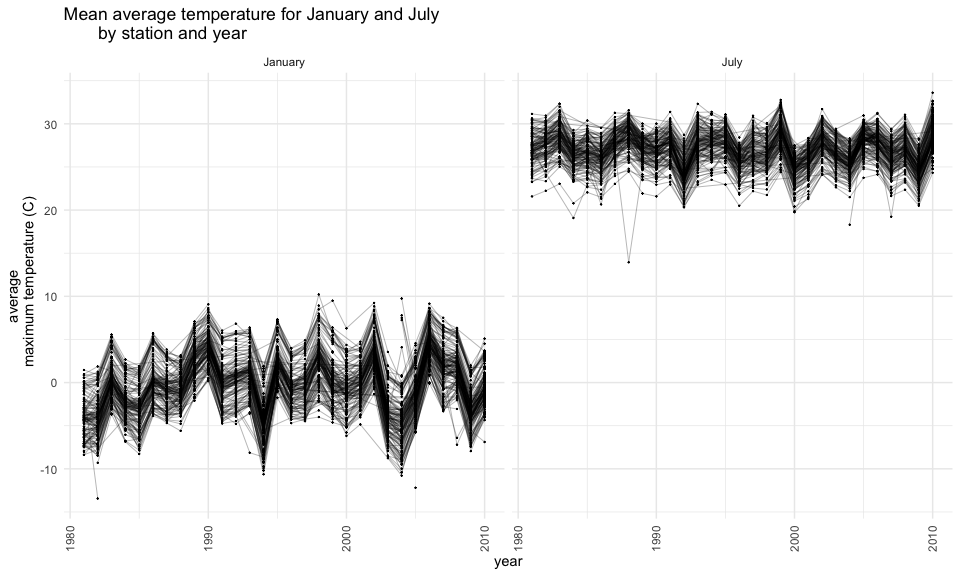
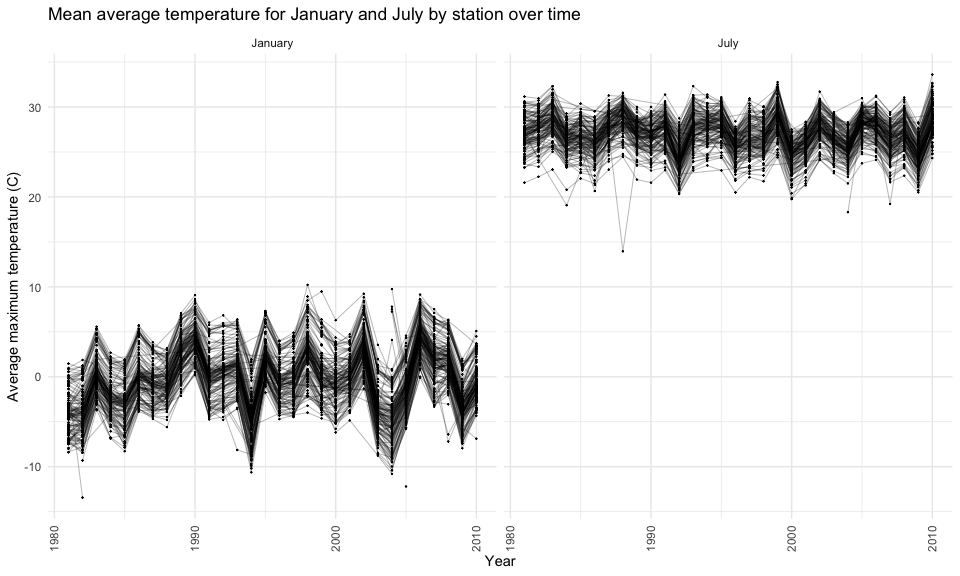
Problem 3 - arrange and clean up plots in problem 3.

diff --git a/Homework3.md b/Homework3.md
@@ -5,7 +5,7 @@ Isabel Nelson
 
 ## Problem 1
 
-Describe the data:
+**Describe the data:**
 
 ``` r
 data("instacart")
@@ -23,7 +23,7 @@ add\_to\_cart\_order, reordered, user\_id, eval\_set, order\_number,
 order\_dow, order\_hour\_of\_day, days\_since\_prior\_order,
 product\_name, aisle\_id, department\_id, aisle, department.
 
-Count aisles:
+**Count aisles:**
 
 ``` r
 instacart %>% 
@@ -50,7 +50,7 @@ instacart %>%
 There are 134 aisles, with most items ordered from the fresh fruits and
 fresh vegetables aisles.
 
-Make a plot of aisles:
+**Make a plot of aisles:**
 
 ``` r
 instacart %>% 
@@ -66,13 +66,14 @@ instacart %>%
 ```
 
 <img src="Homework3_files/figure-gfm/unnamed-chunk-3-1.png" width="90%" />
+
 **comments**  
 Most of the aisles with order counts above 10,000 show between 10k - 20k
 orders. There are about 8 aisles with order counts between 20-40k, 3
 aisles with order counts between 40-80k, and two aisles (fruit and
 vegetables) with order counts around 150k.
 
-Make a table of popular items:
+**Make a table of popular items:**
 
 ``` r
 instacart %>% 
@@ -103,7 +104,8 @@ sugar. The most popular items in dog food care are snack sticks, organix
 chicken recipe, and small dog biscuits. The most popular items in
 packaged fruits/veggies are baby spinach, raspberries, and blueberries.
 
-Make a table for mean hour of product ordered on each day of the week:
+**Make a table for mean hour of product ordered on each day of the
+week:**
 
 ``` r
 instacart %>% 
@@ -133,10 +135,10 @@ are ordered around 12pm.
 
 ## Problem 2
 
-Load data and tidy by cleaning variable names and pivoting to longer
-with one variable for the minute of activity in the day and one variable
-for the activity count in that minute. Add a weekend and weekday
-variable and change minute of activity to numeric.
+**A** Load data and tidy by cleaning variable names and pivoting to
+longer with one variable for the minute of activity in the day and one
+variable for the activity count in that minute. Add a weekend and
+weekday variable and change minute of activity to numeric.
 
 ``` r
 accel_df <- read_csv("./data/accel_data.csv") %>% 
@@ -156,8 +158,8 @@ Variables are the week, the day, the specific minute of the day, the
 activity count in that minute, and whether it was a weekend or a
 weekday.
 
-Create a table with daily activity counts summed across all minutes for
-the 5 weeks. **FACTOR RELVEL NOT WORKING**
+**B** Create a table with daily activity counts summed across all
+minutes for the 5 weeks. **FACTOR RELVEL NOT WORKING**
 
 ``` r
 accel_df %>% 
@@ -185,8 +187,8 @@ From this summary it seems that in weeks 4 and 5 the activity on Sunday
 and particularly Saturday was lower than the other days and weeks. Other
 than that trends are not very apparent.
 
-Create a plot showing activity over the course of the day, with each day
-of the week represented by a different color.
+**C** Create a plot showing activity over the course of the day, with
+each day of the week represented by a different color.
 
 ``` r
 accel_df %>% 
@@ -210,7 +212,7 @@ pronounced on Fridays.
 
 ## Problem 3
 
-Describe the dataset:
+**A** Describe the dataset:
 
 ``` r
 data("ny_noaa")
@@ -231,6 +233,7 @@ miss_tmin <-
   drop_na(tmin)
 ```
 
+**comments**  
 The dataset ny\_noaa contains 2595176 observations and 7 variables.
 Variables include: id, date, prcp, snow, snwd, tmax, tmin. It includes
 data from 1981-01-01 to 2010-12-31. There are 145838 missing prcp
@@ -238,9 +241,9 @@ values, 381221 missing snow values, 591786 missing snwd values, 1134358
 missing tmax values, and 1134420 missing tmin values. Given this, it
 appears that about 5% of the data are missing for each variable.
 
-Do some data cleaning: create separate variables for year/month/day,
-divide temperature, snowfall, and snow depth by 10 to result in cm,
-divide precipitation by 100 to result in cm.
+**B** Do some data cleaning: create separate variables for
+year/month/day, divide temperature, snowfall, and snow depth by 10 to
+result in cm, divide precipitation by 100 to result in cm.
 
 ``` r
 tidy_ny_noaa <- 
@@ -279,13 +282,13 @@ tidy_ny_noaa %>%
     ## 10   0.3    8790
     ## # … with 272 more rows
 
+**comments**  
 The most commonly observed values for snowfall are 0 and NA. This is
 likely because overall there were a lot of missing values, and because
 NY only gets snow a few weeks out of the year.
 
-Make a two-panel plot showing the average max temperature in January and
-in July in each station across years. **Not working to recode the month
-names**
+**C** Make a two-panel plot showing the average max temperature in
+January and in July in each station across years.
 
 ``` r
 tidy_ny_noaa %>% 
@@ -297,11 +300,11 @@ tidy_ny_noaa %>%
   geom_point(size = .1) +
   geom_path(size = .1) +
   facet_grid(. ~ month_name) +
-  labs(title = "Mean average temperature for January and July
-       by station and year", x = "year", y = "average
-       maximum temperature (C)") +
-  theme(axis.text.x = element_text(angle = 90, vjust = 0.5, hjust
-                                   = 1))
+  labs(
+       title = "Mean average temperature for January and July by station over time", 
+       x = "Year", 
+       y = "Average maximum temperature (C)") +
+  theme(axis.text.x = element_text(angle = 90, vjust = 0.5, hjust = 1))
 ```
 
     ## `summarise()` regrouping output by 'id', 'Year' (override with `.groups` argument)
@@ -311,6 +314,8 @@ tidy_ny_noaa %>%
     ## Warning: Removed 5931 row(s) containing missing values (geom_path).
 
 <img src="Homework3_files/figure-gfm/unnamed-chunk-11-1.png" width="90%" />
+
+**comments**  
 Most of the stations are overlapping in their max temperatures,
 generally spanning from about -12 degrees C to 10 degrees C in January
 and from 20 degrees C to 32 degrees C in July. There are a few outliers
@@ -319,21 +324,23 @@ in any particular direction overall across the years in July, and seems
 to be trending slightly higher over the years in January. However some
 years are clearly colder or warmer than others at all stations.
 
-Make a two-panel plot showing (i) tmax vs tmin and (ii) distribution of
-snowfall by year.
+**D** Make a two-panel plot showing (i) tmax vs tmin and (ii)
+distribution of snowfall by year.
 
 ``` r
 tmintmax_df <- 
   tidy_ny_noaa %>% 
   ggplot(aes(x = tmin, y = tmax)) + 
-  #geom_bin2d() +
-  geom_density_2d(size = .1) + 
-  geom_point(alpha = .1) + 
+  stat_bin_hex(colour = "white", na.rm = TRUE) +
+  scale_fill_gradientn(colours = c("blue","green"), 
+                       name = "Frequency", 
+                       na.value = NA) +
   labs(
-    title = "Temperature plot",
+    title = "Max and Min Temperature",
     x = "Minimum daily temperature (C)",
     y = "Maxiumum daily temperature (C)",
-    caption = "Data from the rnoaa package")
+    caption = "Data from the rnoaa package") + 
+  theme(legend.direction = "vertical")
 
 snowfall_df <-
   tidy_ny_noaa %>% 
@@ -346,9 +353,19 @@ snowfall_df <-
   labs(
     title = "Distribution of snowfall by year", 
     x = "year", 
-    y = "Snowfall") +
-  theme(axis.text.x = element_text(angle = 90, vjust = 0.5, hjust
-                                   = 1))
+    y = "Snowfall", 
+    caption = "Data from the rnoaa package") +
+  theme(axis.text.x = element_text(angle = 90, vjust = 0.5, hjust = 1))
   
-(tmintmax_df / snowfall_df)
+(tmintmax_df + snowfall_df)
 ```
+
+<img src="Homework3_files/figure-gfm/unnamed-chunk-12-1.png" width="90%" />
+
+**comments**  
+Min and max temperature appear to be positively correlated. I used the
+hexbin package to more clearly display density - the highest density is
+in the area of min temperature 0-30 degrees C and max temperature 0-30
+degrees C. The daily snowfall appears to be most frequently between zero
+and five cm, with some outliers that are larger each year. The trends
+across years seem stable.
